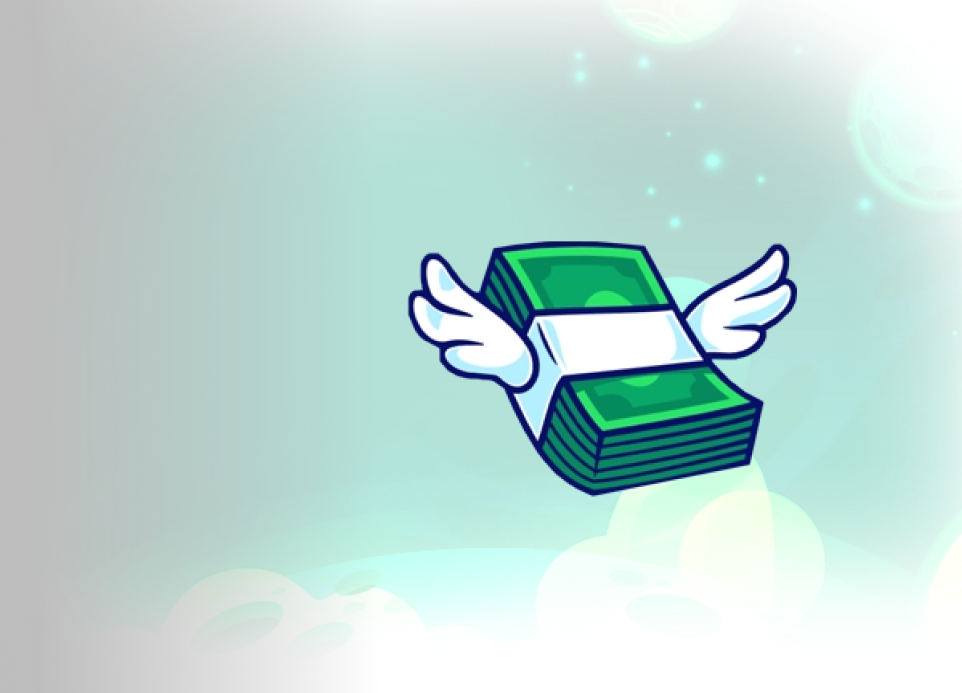
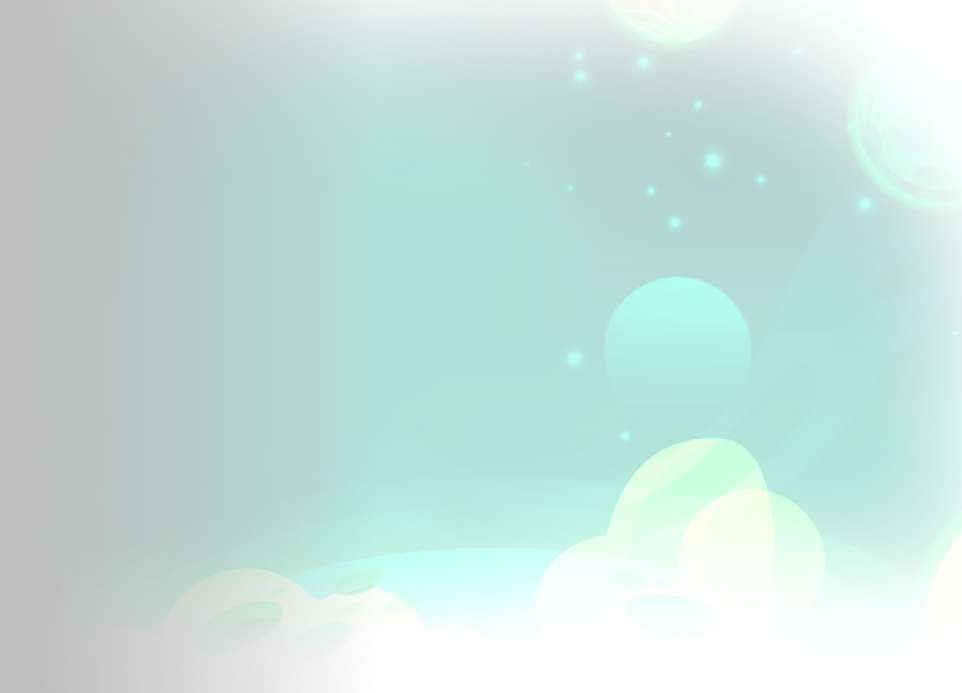
A-16

Changed region(s): [[0.4054, 0.3333, 0.842, 0.7273]]

diff --git a/src/routing/Home/blocks/Feedback/Feedback.tsx b/src/routing/Home/blocks/Feedback/Feedback.tsx
@@ -1,6 +1,7 @@
 import emailIcon from '@/assets/icons/email.svg';
 import telegramIcon from '@/assets/icons/telegram.svg';
 import img from '@/assets/images/bg-feedback.png';
+import icon from '@/assets/images/money-fly.svg';
 import Button from '@/components/shared/Button/Button';
 import Field from '@/components/shared/Field/Field';
 import Textarea from '@/components/shared/Textarea/Textarea';
@@ -56,6 +57,13 @@ const Feedback = () => {
 						width={undefined}
 						height={undefined}
 						className={styles.img}
+					/>
+					<Image
+						src={icon}
+						alt=""
+						width={undefined}
+						height={undefined}
+						className={styles.icon}
 					/>
 				</div>
 			</div>

diff --git a/src/routing/Home/blocks/Main/Main.tsx b/src/routing/Home/blocks/Main/Main.tsx
@@ -1,7 +1,7 @@
 import bgMain2 from '@/assets/images/bg-main-2.png';
 import blurImage from '@/assets/images/blur.svg';
 import bgMain1 from '@/assets/images/lines.svg';
-import img from '@/assets/images/money-fly.png';
+import img from '@/assets/images/money-fly.svg';
 import Typography from '@/components/shared/Typography/Typography';
 import clsx from 'clsx';
 import Image from 'next/image';

diff --git a/src/routing/Home/blocks/Feedback/Feedback.module.css b/src/routing/Home/blocks/Feedback/Feedback.module.css
@@ -59,6 +59,14 @@
 	padding-bottom: 42px;
 }
 
+.icon {
+	position: absolute;
+	top: 15%;
+	right: 10%;
+	bottom: 0;
+	z-index: -1;
+}
+
 @media (min-width: 997px) {
 	.email {
 		max-width: 200px;
@@ -87,7 +95,8 @@
 		height: 11px;
 	}
 
-	.img {
+	.img,
+	.icon {
 		display: none;
 	}
 
